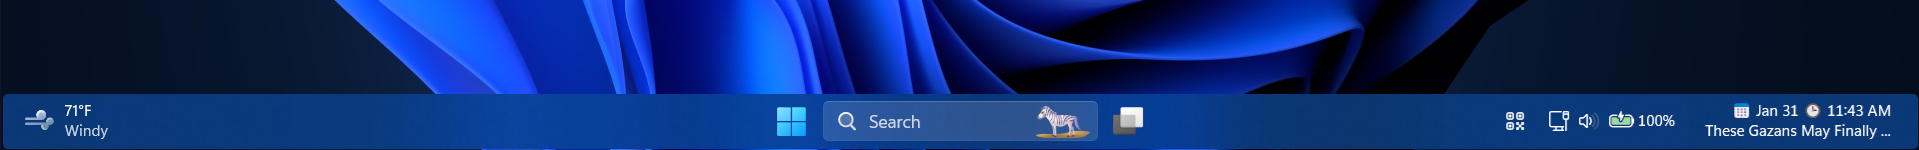
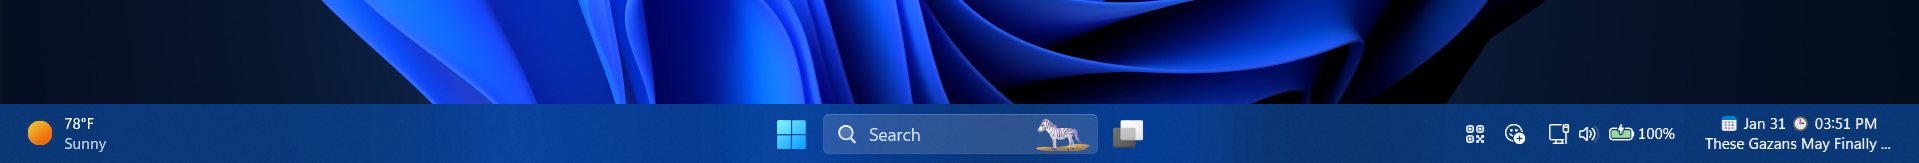
Remove Margin and Corner Radius style properties from taskbar background for a more Fluid appearance.

diff --git a/Themes/Fluid/README.md b/Themes/Fluid/README.md
@@ -37,8 +37,6 @@ settings:
   "theme": "",
   "controlStyles[0].target": "Taskbar.TaskbarFrame > Grid#RootGrid > Taskbar.TaskbarBackground > Grid",
   "controlStyles[0].styles[0]": "Background:=<SolidColorBrush Color=\"{ThemeResource ControlFillColorDefault}\" />",
-  "controlStyles[0].styles[1]": "Margin=2",
-  "controlStyles[0].styles[2]": "CornerRadius=$CornerRadius",
   "controlStyles[1].target": "Rectangle#BackgroundStroke",
   "controlStyles[1].styles[0]": "Visibility=1",
   "controlStyles[2].target": "SearchUx.SearchUI.SearchButtonRootGrid@CommonStates > Border#BackgroundElement",
